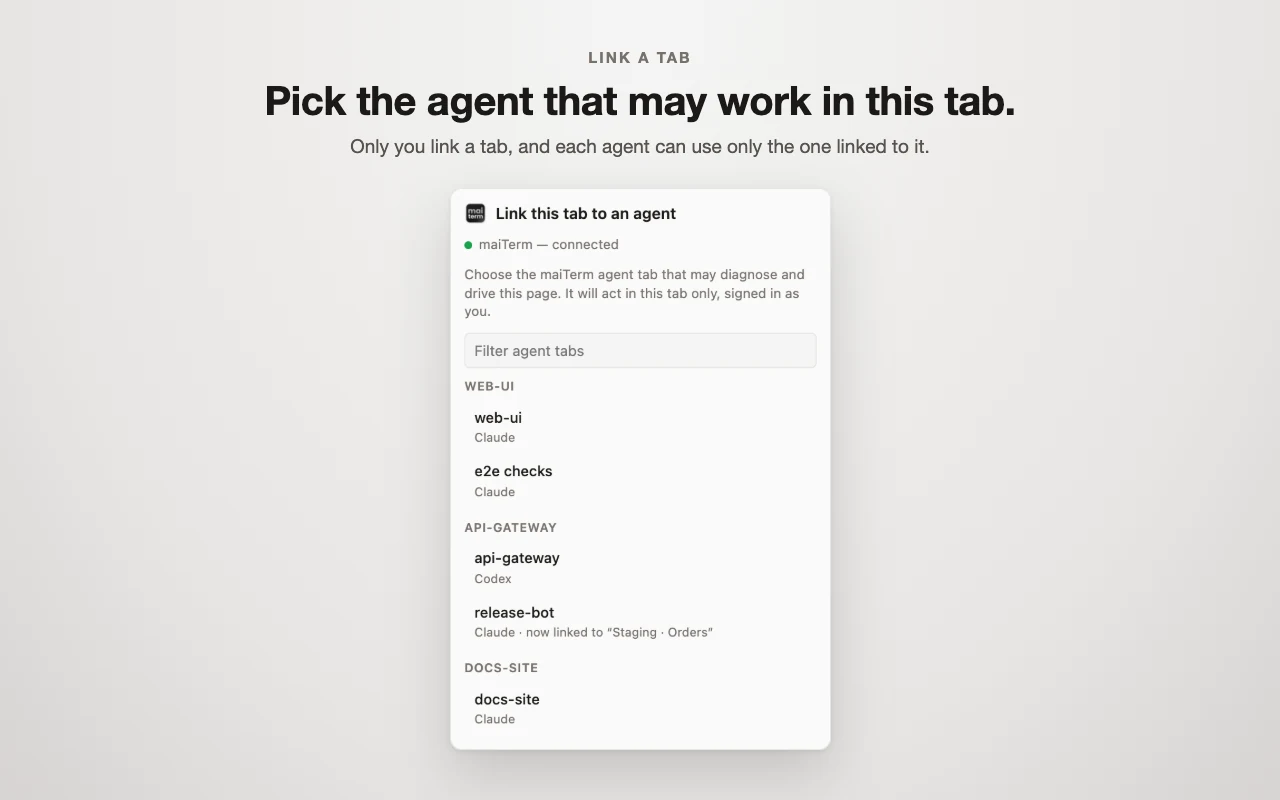
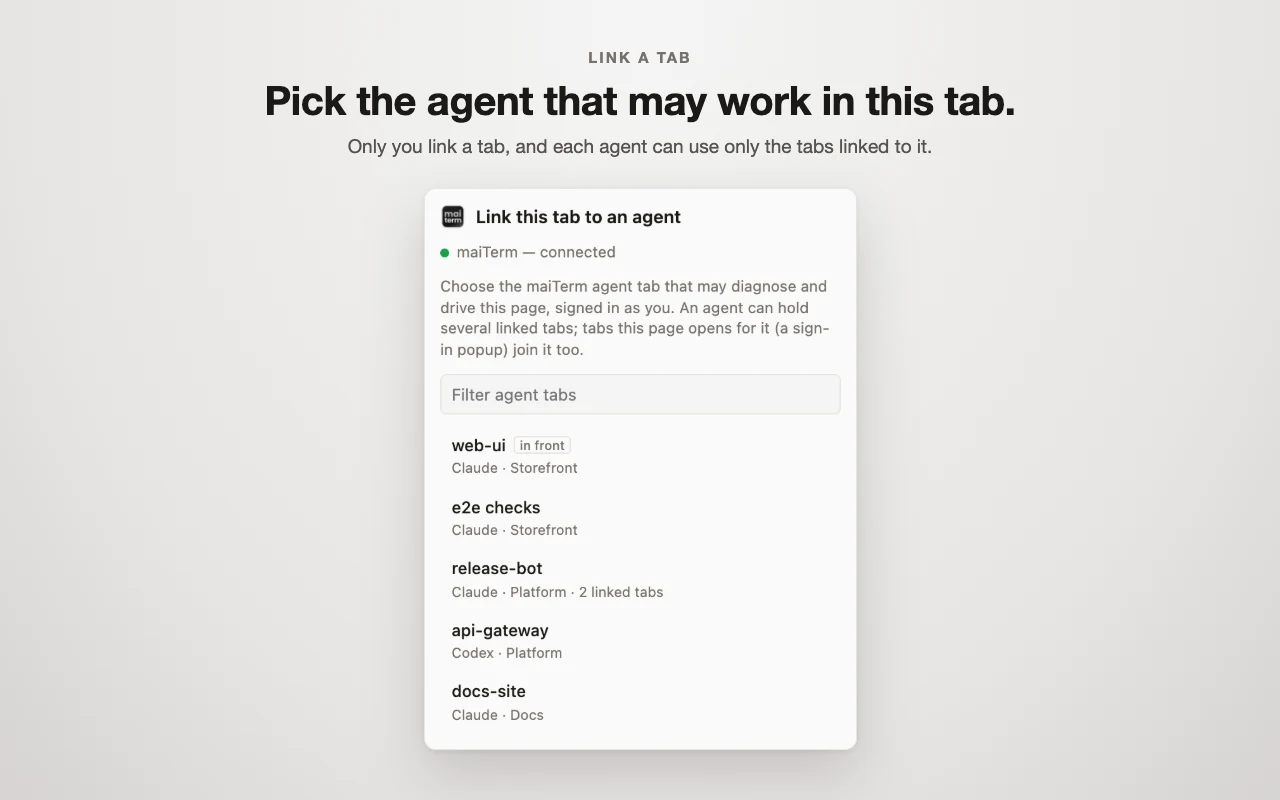
Website: Chrome extension page and privacy policy for several tabs per agent, popups that join it, and the recency-ordered picker

Changed region(s): [[0.3125, 0.25, 0.6875, 0.9375], [0.2812, 0.1562, 0.7188, 0.2188]]

diff --git a/website/src/content/docs/features/chrome-extension.md b/website/src/content/docs/features/chrome-extension.md
@@ -1,11 +1,11 @@
 ---
 title: Chrome Extension
-description: Link one tab in your own Chrome to one maiTerm agent, and it can diagnose and drive that tab — console errors, failing requests and their responses, the page itself, clicks and typing — signed in as you.
+description: Link tabs in your own Chrome to a maiTerm agent, and it can diagnose and drive them — console errors, failing requests and their responses, the page itself, clicks and typing — signed in as you.
 ---
 
 An agent fixing a bug in a web app usually can't see the bug. It reads the code, guesses, and asks you to reload the page and tell it what happened. Tools that give an agent a browser give it a *new* one: no logins, none of your data, often not the state the bug needs.
 
-The **maiTerm extension for Chrome** lets an agent work in **your** browser instead, in one tab you choose. Link a tab to an agent tab in maiTerm, and that agent can:
+The **maiTerm extension for Chrome** lets an agent work in **your** browser instead, in the tabs you choose. Link a tab to an agent tab in maiTerm, and that agent can:
 
 **Diagnose it**
 
@@ -29,7 +29,7 @@ All of it in your real, signed-in session, and in the background: the tab doesn'
 ## You stay in control
 
 - **Only you link a tab**, from the extension's icon in the browser. No agent can link one, pick one, or see your other tabs.
-- **One tab, one agent.** Each agent can use only the tab linked to it, and a tab is linked to one agent at a time.
+- **Each tab has one agent.** An agent can use only the tabs linked to it, and a tab is linked to one agent at a time. The one tab you don't link by hand is one a linked page opens for its agent, such as a sign-in popup ([below](#several-tabs-and-popups)).
 - **Chrome shows that it's happening.** While an agent is working, Chrome shows its "is debugging this browser" bar. **Cancel** it, close the tab, click **Unlink**, or turn the feature off in maiTerm, and the link ends.
 - **Nothing leaves your computer through the extension.** It talks only to maiTerm on your own machine. What the agent reads from the tab goes to that agent, as everything else it reads does. See the [privacy policy](/chrome-extension/privacy/).
 
@@ -60,20 +60,32 @@ It works in Chrome and other Chromium browsers: Brave, Edge, Vivaldi, and Arc on
 </figure>
 
 1. Open the page in your browser.
-2. Click the maiTerm icon in the toolbar. The popup lists your agent tabs in maiTerm, grouped by workspace, with a filter.
-3. Choose one. The page is now that agent's to use, and the extension's icon shows on the tab that it's linked.
+2. Click the maiTerm icon in the toolbar. The popup lists your agent tabs in maiTerm, the one in front in each maiTerm window first (marked **in front**), then the rest by when you last used them, with a filter.
+3. Choose one. The page is now that agent's to use, and the extension's icon shows on the tab the name the agent knows it by: **b1**, **b2** and so on.
 
 Tell the agent what to look at: "the orders page won't load, find out why" is enough for it to read the failing request and its response. To end it, click the icon again and **Unlink**, or click **Unlink** beside it in **Preferences → Chrome extension → Linked tabs**, which lists every link.
 
 A link follows the tab: navigating, or reloading the page, keeps it. Reloading the *agent's* tab in maiTerm keeps it too. Links don't outlive the browser: after a restart of Chrome, link the tab again.
 
+### Several tabs and popups
+
+An agent can hold up to eight linked tabs: an app and its admin panel, two users in a chat app, a page and the docs it's built from. Link each one as above. The agent knows them as **b1**, **b2** and so on, the name on each tab's maiTerm icon, and works in whichever one it names, or the one it used last.
+
+A tab a linked page opens joins that page's agent by itself, so a flow like "Sign in with Google" can finish in its popup. That happens when the page opens a popup window, or opens a tab within a few seconds of the agent clicking something in it. A tab you open yourself from a linked page, with a middle-click say, stays yours. The agent is told on its next step when a tab joins, closes, or is unlinked or moved to another agent.
+
+Linking a tab that's already linked to another agent moves it to the one you choose.
+
+:::note
+Several tabs per agent and popups joining need a maiTerm release after 3.11.0. In 3.11.0 an agent has one tab, and linking another replaces it.
+:::
+
 ## The tools
 
-Agents in an agent tab get these while the feature is on. Every one acts on the caller's own linked tab; an agent with no linked tab is told to ask you to link one.
+Agents in an agent tab get these while the feature is on. Every one acts on the caller's own linked tabs: the one it names with `tab` (**b1**, **b2**…), or the one it used last. An agent with no linked tab is told to ask you to link one.
 
 | Tool | What it does |
 |------|-------------|
-| `browserStatus` | Whether this agent has a linked tab, and its title and address |
+| `browserStatus` | This agent's linked tabs, each with its name, title and address, which one opened it, and which is current |
 | `browserConsole` | Console messages, uncaught exceptions with their source, and the browser's warnings since the link — or only errors |
 | `browserNetwork` | Requests since the link: method, address, status, failure, size and time; failed ones only, or one request's response body |
 | `browserSnapshot` | The page as an accessibility tree, each element it can act on numbered for the tools below |
@@ -90,4 +102,3 @@ Console and network records start when the agent first uses the tab, so for a bu
 
 - **It acts as you.** Clicking "Delete" in a linked tab deletes, in your account. Link a tab you're happy for the agent to work in, and say what it may and may not do.
 - **Agent tabs only.** The popup lists maiTerm tabs running an agent, not shells or stack services.
-- **One tab per agent.** Linking a second tab to the same agent moves the link; linking a tab already linked to another agent takes it from that one.

diff --git a/website/src/content/docs/chrome-extension/privacy.md b/website/src/content/docs/chrome-extension/privacy.md
@@ -3,7 +3,7 @@ title: Privacy Policy — maiTerm for Chrome
 description: What the maiTerm Chrome extension reads, where it goes, and what it keeps.
 ---
 
-Last updated: 21 October 2026
+Last updated: 22 October 2026
 
 ## The short version
 
@@ -17,9 +17,15 @@ OpenAI, as part of its conversation. That provider's policy governs what happens
 
 ## Which tabs it touches
 
-Only tabs you link yourself. You click the extension's icon on a tab and choose one maiTerm
-agent tab, and that is the only way a link is made. An agent cannot link a tab, choose a tab or
-reach any other tab.
+Only tabs you link yourself, and the tabs those pages open for the agent:
+
+- **You link a tab** by clicking the extension's icon on it and choosing one maiTerm agent tab.
+  One agent can hold several linked tabs; each tab belongs to one agent.
+- **A tab a linked page opens joins that page's agent**: a popup window it opens (a sign-in
+  window, for example), or a tab it opens within a few seconds of the agent acting on it. A tab
+  you open yourself from a linked page, such as with a middle-click, is not linked.
+
+An agent cannot link a tab or choose one, and reaches only the tabs linked to it.
 
 The extension uses Chrome's debugger (the DevTools Protocol) on a linked tab, and Chrome shows
 its "is debugging this browser" bar while it does. Cancelling that bar, closing the tab, clicking
